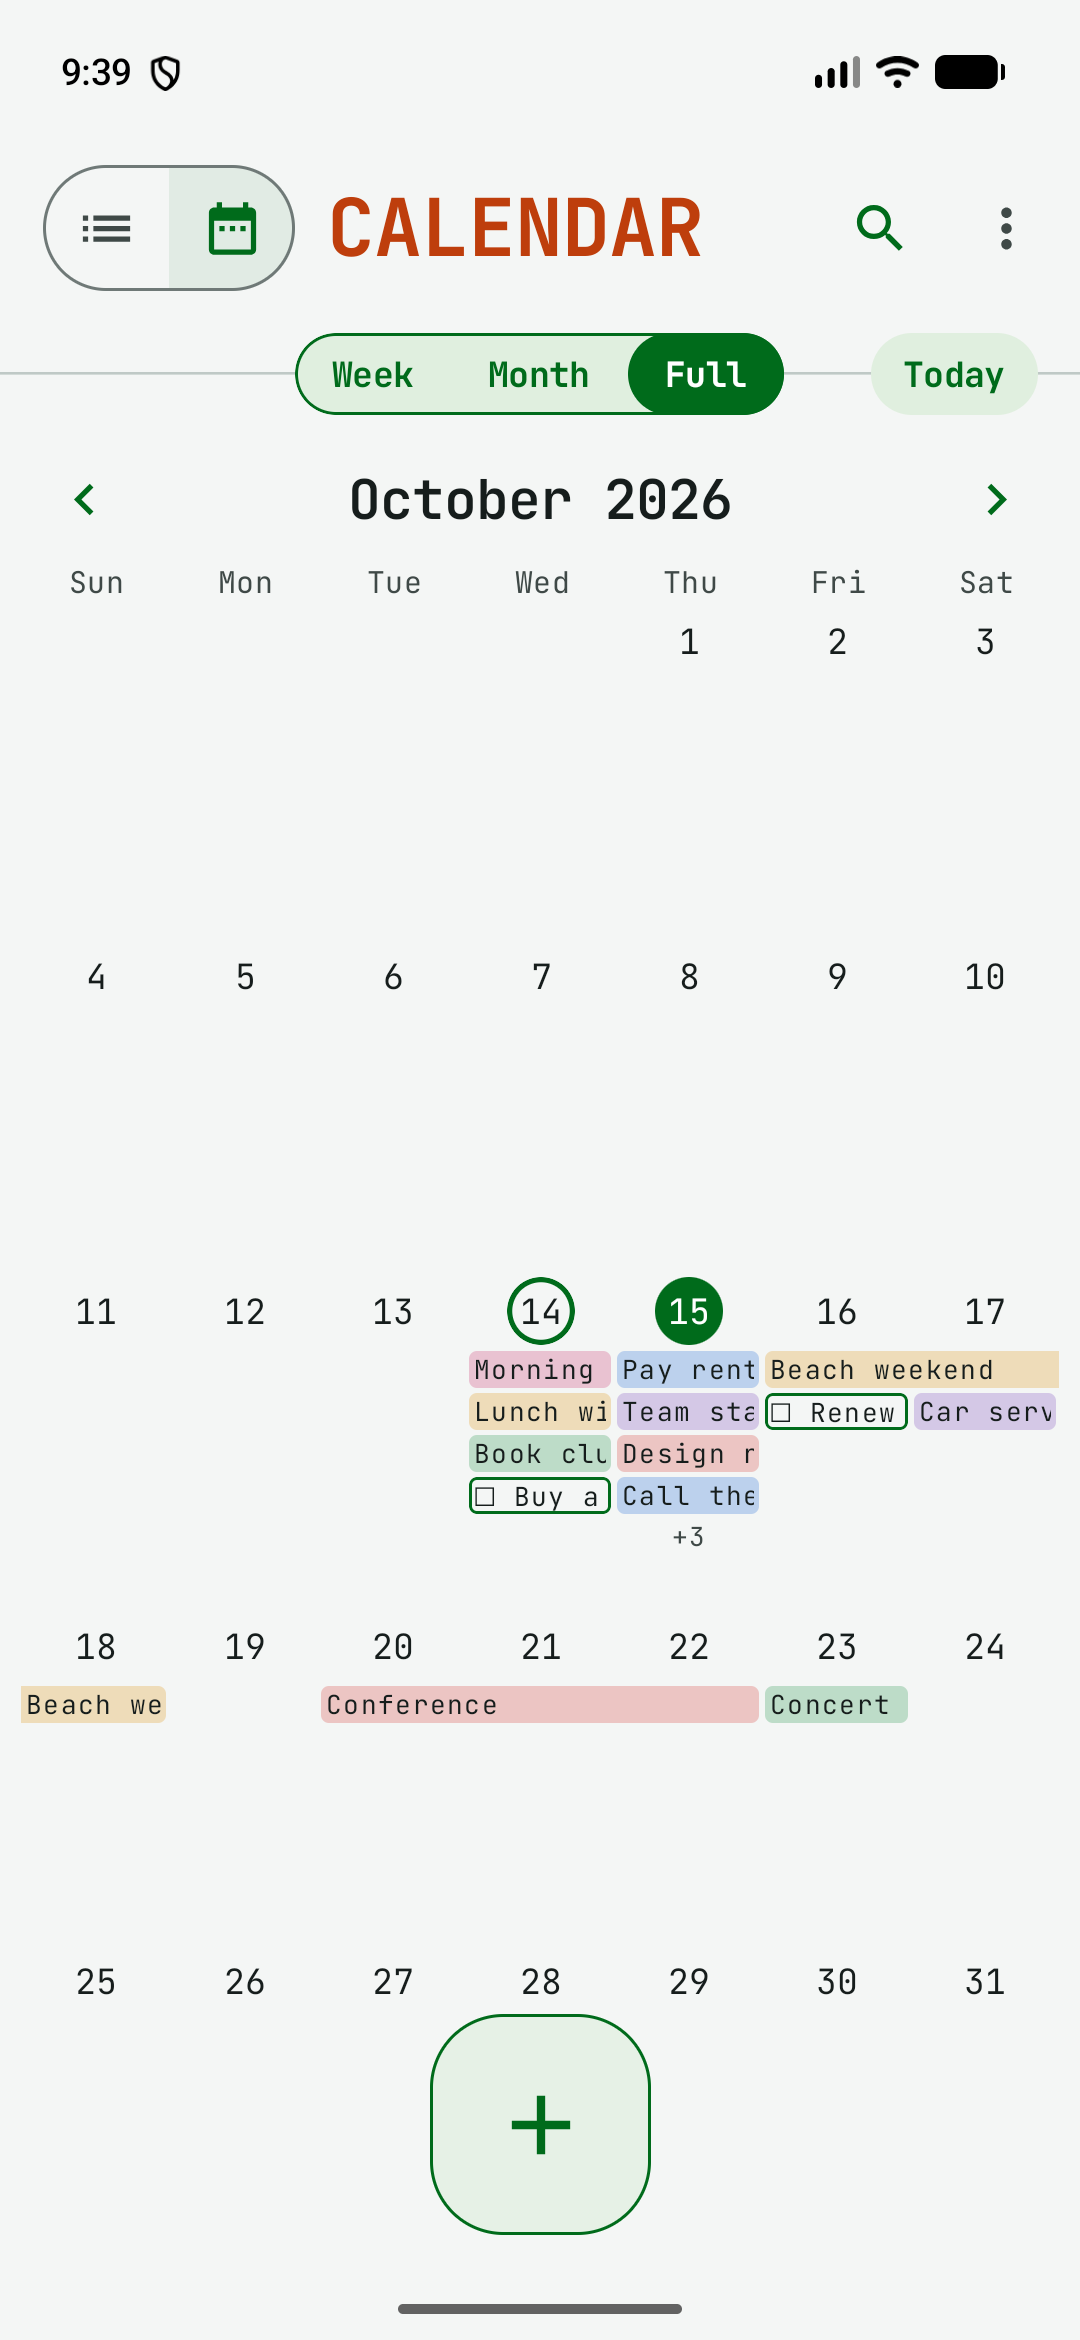
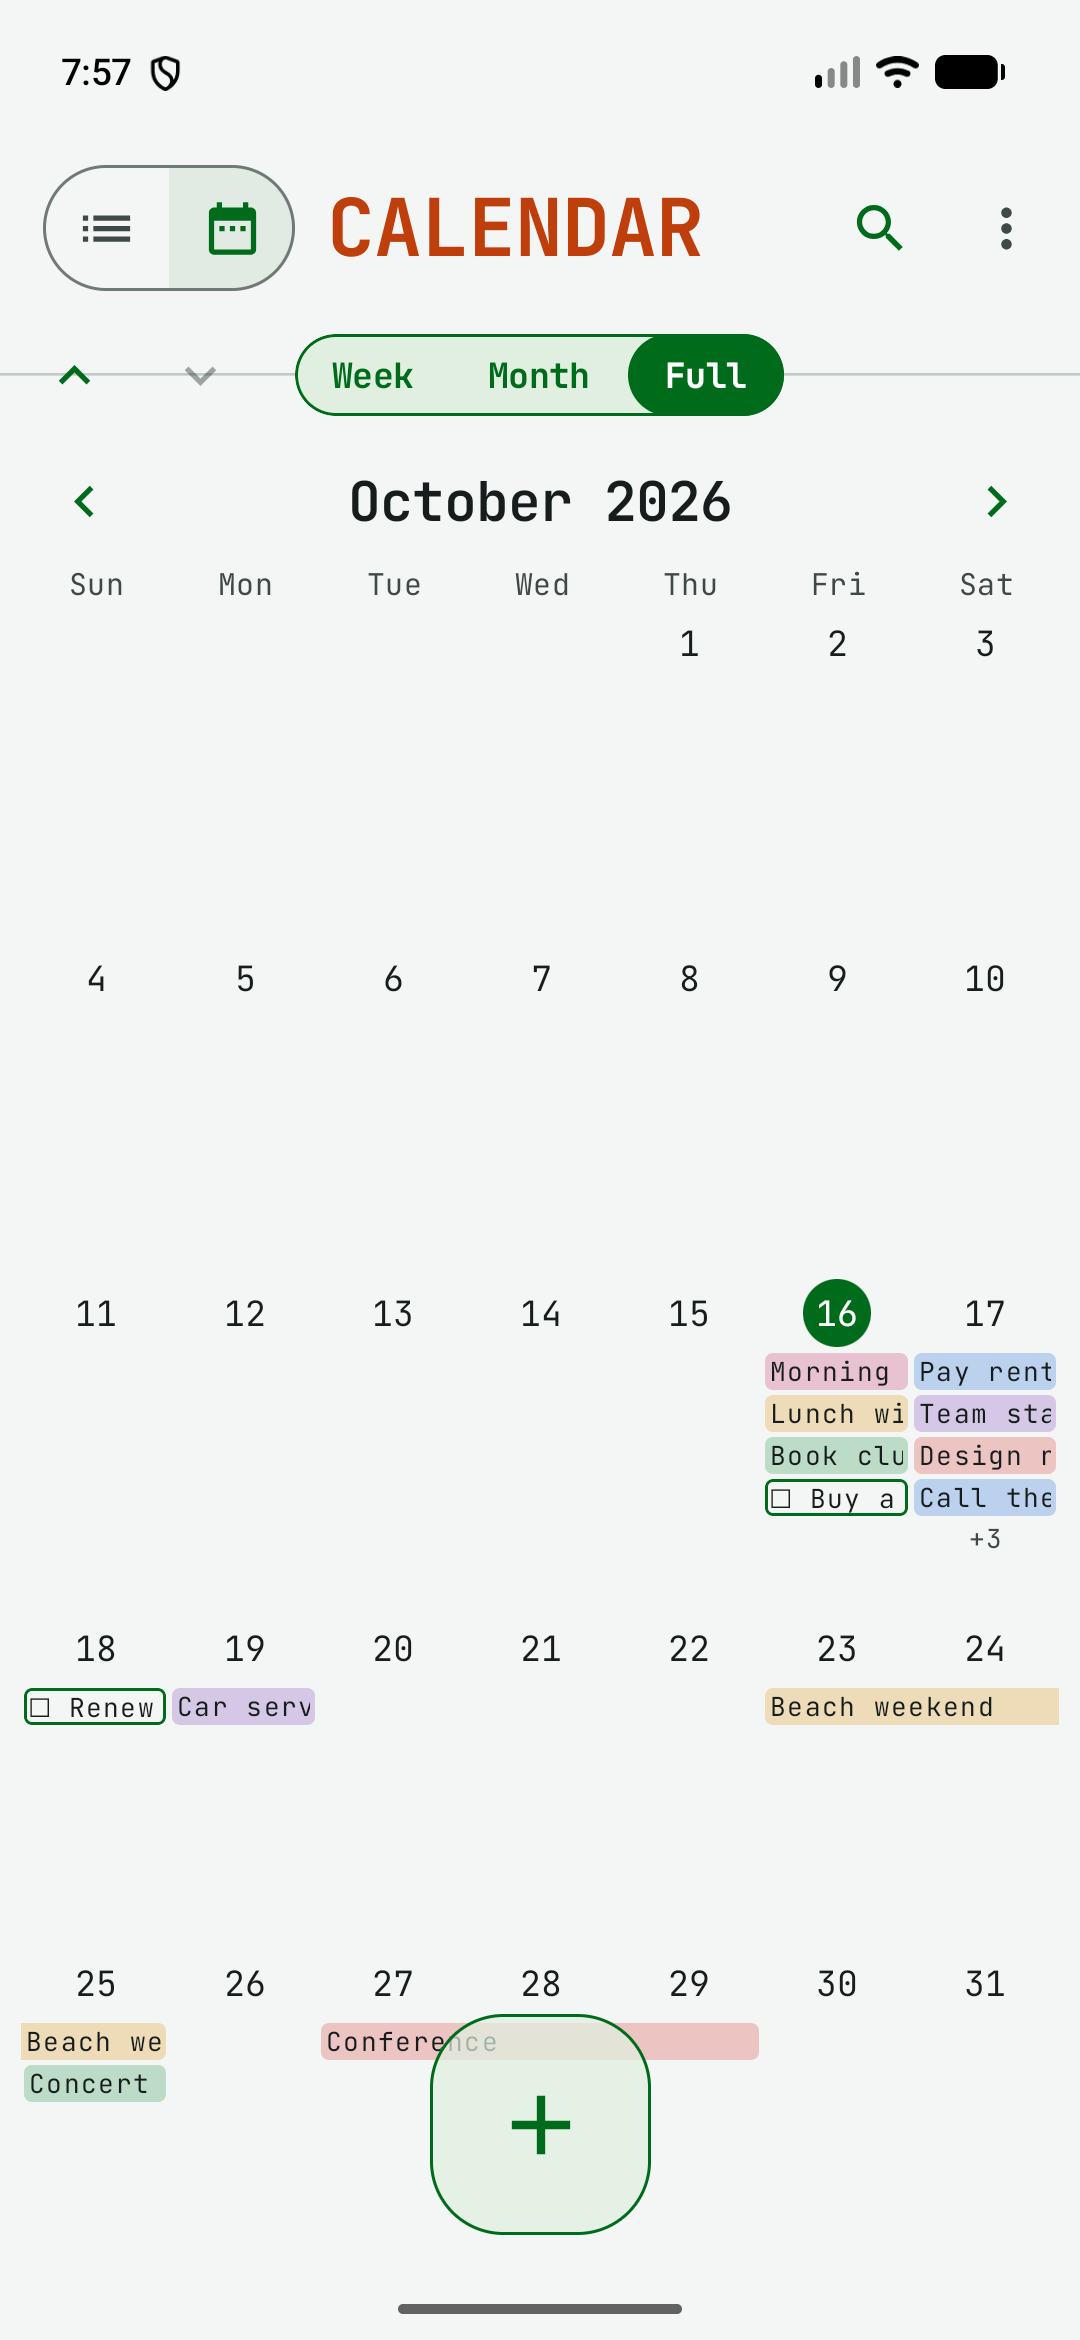
README screenshots with the calendar arrows; the arrow test reads the button's enabled state
The calendar and hour-grid screenshots show the ▲ ▼ arrows and the List | Hours switch. In MaximisedCalendarUiTest the arrow's label is on its icon, so the greyed-out check reads the button around it.

diff --git a/app/src/androidTest/java/com/example/itinerary/MaximisedCalendarUiTest.kt b/app/src/androidTest/java/com/example/itinerary/MaximisedCalendarUiTest.kt
@@ -121,8 +121,8 @@ class MaximisedCalendarUiTest {
         assertFalse(app.settings.calendarMaximised.value)
 
         // The arrows at the left end do what the swipe does, and are greyed out at the smallest and biggest size.
-        // The button itself carries the label (IconButton merges its icon), so its own enabled state is the one read.
-        fun arrow(label: String) = nodes().firstOrNull { it.contentDescription?.toString() == label }
+        // The label is on the icon; the button around it (its parent, greyed out or not) holds the enabled state.
+        fun arrow(label: String) = nodes().firstOrNull { it.contentDescription?.toString() == label }?.parent
         click("Smaller calendar")
         await("arrow to week") { app.settings.calendarCollapsed.value && find("Calendar: week")?.isSelected == true }
         await("up greyed at week") { arrow("Smaller calendar")?.isEnabled == false && arrow("Bigger calendar")?.isEnabled == true }
